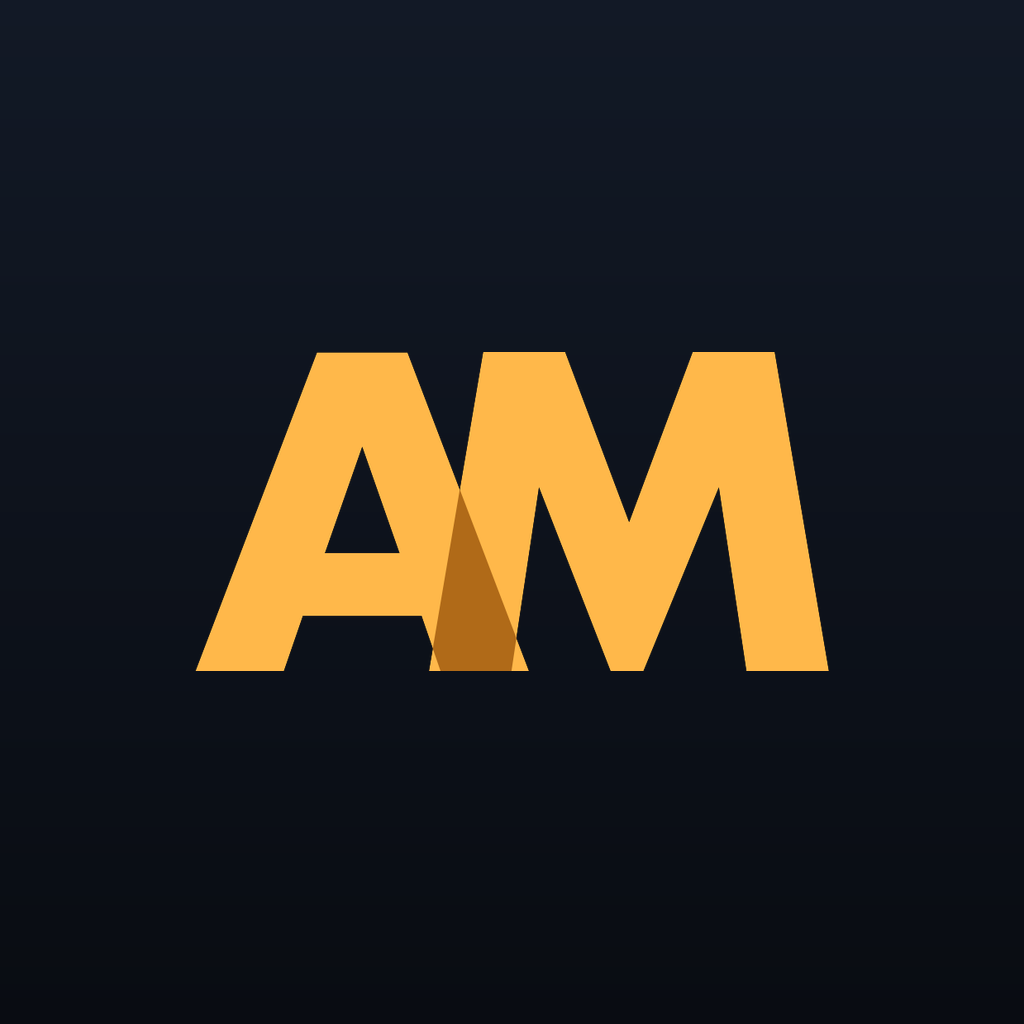
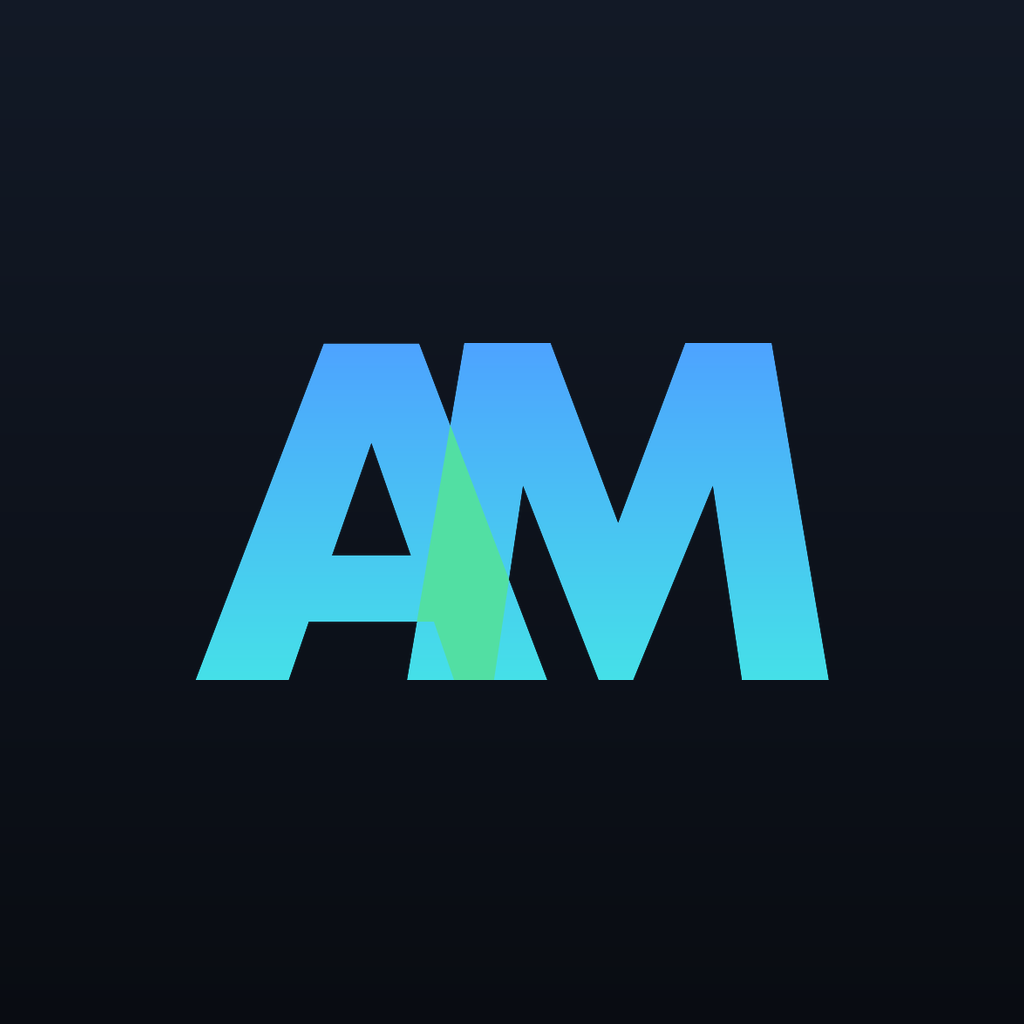
Recolour the monogram and clean up its join
The letters run blue to cyan, and the intersection is the theme's green so the
join reads as its own element rather than a shadow of the letters.

Deepening the overlap to 0.40 fixes the join itself. At 0.30 the two legs
crossed and then diverged again, leaving a stray sliver underneath that looked
like a rendering fault; past 0.45 the A's apex cut a notch through M's stem and
neither letter survived. At 0.40 the intersection is a single clean wedge.

Changed region(s): [[0.1875, 0.3125, 0.8125, 0.6875]]

diff --git a/mobile/scripts/make-icon.py b/mobile/scripts/make-icon.py
@@ -21,16 +21,23 @@ FONT_INDEX = 2  # Futura Bold
 
 INK = (9, 12, 18)
 INK_TOP = (18, 25, 38)
-AMBER = (255, 184, 74)
-AMBER_DEEP = (176, 106, 24)
+# The letters run blue to cyan down their height; the intersection is the
+# theme's green, so the join reads as its own thing rather than a shadow.
+LETTER_TOP = (77, 163, 255)
+LETTER_BOTTOM = (69, 224, 232)
+MERGE = (82, 223, 163)
 
 SIZE = 1024
 # Fraction of the canvas the monogram spans. iOS masks the corners, so the mark
 # has to sit well inside the square or it reads as cramped.
 MARK_WIDTH = 0.62
-# How far M is pulled into A, as a fraction of A's width. Enough to force a real
-# intersection; more than this and the A stops being readable.
-OVERLAP = 0.30
+# How far M is pulled into A, as a fraction of A's width.
+#
+# Tuned by eye against the alternatives. Below this the two legs cross and then
+# diverge again, leaving a stray sliver under the join that reads as a mistake.
+# Above it, A's apex cuts a notch clean through M's left stem and both letters
+# stop being legible. 0.40 is where the intersection is a single clean wedge.
+OVERLAP = 0.40
 
 
 def glyph_mask(character: str, point_size: int) -> Image.Image:
@@ -41,6 +48,22 @@ def glyph_mask(character: str, point_size: int) -> Image.Image:
         (point_size, point_size), character, font=font, fill=255
     )
     return canvas.crop(canvas.getbbox())
+
+
+def gradient(
+    width: int, height: int, top: tuple[int, int, int], bottom: tuple[int, int, int]
+) -> Image.Image:
+    """A vertical two-stop ramp, used to fill the letterforms."""
+    ramp = Image.new("RGBA", (width, height))
+    draw = ImageDraw.Draw(ramp)
+    for y in range(height):
+        t = y / max(1, height - 1)
+        draw.line(
+            [(0, y), (width, y)],
+            fill=tuple(round(top[i] + (bottom[i] - top[i]) * t) for i in range(3))
+            + (255,),
+        )
+    return ramp
 
 
 def monogram(size: int, width_fraction: float) -> Image.Image:
@@ -62,8 +85,8 @@ def monogram(size: int, width_fraction: float) -> Image.Image:
     intersection = ImageChops.darker(a_layer, m_layer)
 
     mark = Image.new("RGBA", (raw_width, raw_height), (0, 0, 0, 0))
-    mark.paste(Image.new("RGBA", mark.size, AMBER + (255,)), (0, 0), union)
-    mark.paste(Image.new("RGBA", mark.size, AMBER_DEEP + (255,)), (0, 0), intersection)
+    mark.paste(gradient(raw_width, raw_height, LETTER_TOP, LETTER_BOTTOM), (0, 0), union)
+    mark.paste(Image.new("RGBA", mark.size, MERGE + (255,)), (0, 0), intersection)
 
     target_width = int(size * width_fraction)
     scale = target_width / raw_width
